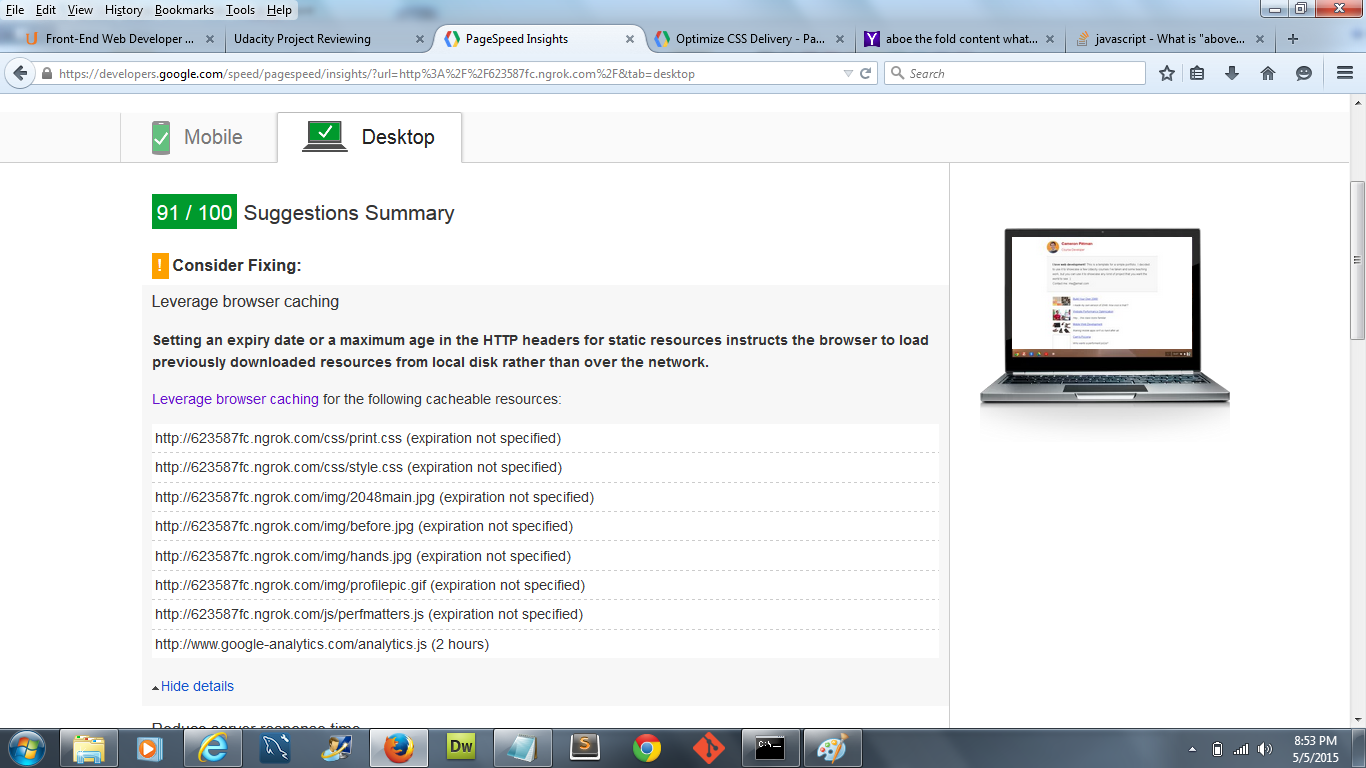
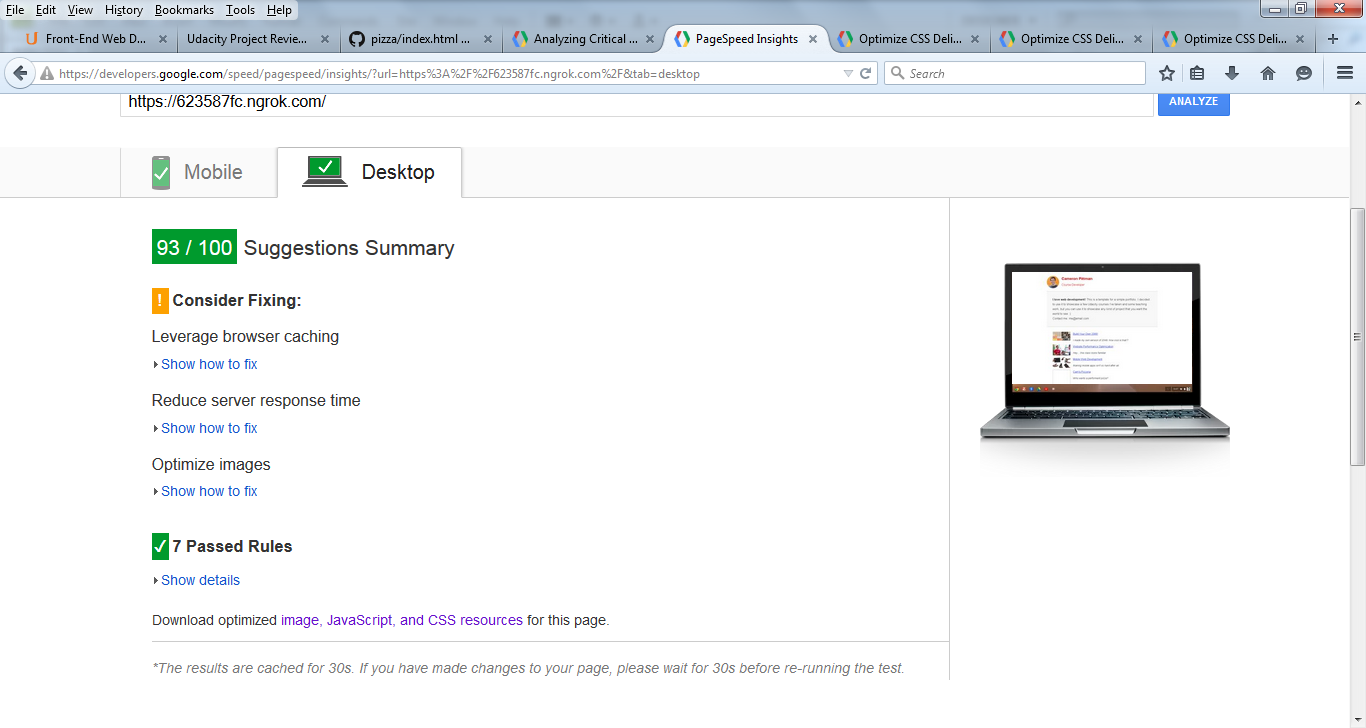
fixed pizzaria.jpg and moved all css to index.html

diff --git a/index.html b/index.html
@@ -7,25 +7,65 @@
     <meta name="author" content=" FILL ME IN ">
     <title>Cameron Pittman: Portfolio</title>
 <!--  removed style from this file not needed same style in css file --!>
-
-
-
-
     <!-- Hmm, what is the impact of web fonts on speed? Measure it... -->
    <!-- <link href="//fonts.googleapis.com/css?family=Open+Sans:400,700" rel="stylesheet"> -->
 
-    <link href="css/style.css" rel="stylesheet">
+    
     <link href="css/print.css" rel="stylesheet" media="print">
 <style>
 @media only screen and (max-width: 480px) {
   body { font-size: 12px;}
   header p { padding-left: 4.5em;}
 }
+html {
+  font-size: 100%;
+  overflow-y: scroll;
+  -webkit-tap-highlight-color: rgba(0,0,0,0);
+  -ms-text-size-adjust: 100%;
+  -webkit-text-size-adjust: none;
+}
+body { margin: 0; font-size: 14px; line-height: 1.61; font-weight: 400; }
+body, button, input, select, textarea { font-family: 'Open Sans', sans-serif; color: #333; }
+
+a { color: #12C; }
+a:visited { color: #61C; }
+a:focus { outline: thin dotted; }
+a:hover, a:active { color: #c00; outline: 0; }
+
+b, strong { font-weight: bold; }
+pre, code { font-family: monospace, monospace; font-size: 1em; }
+ul, ol { margin: 1em 0; padding: 0 0 0 20px; }
+img { border: 0; max-width: 100%; }
+
+
+header, footer, .container { max-width: 45em; margin: 0 auto; }
+
+header { padding: 0 0.5em; color: #C90B0B; }
+header img { border-radius: 40px; float: left; }
+header p { font-size:1.5em; font-weight: bold; padding-left: 4em;}
+header p span { font-size: 0.8em; font-weight: normal;}
+
+.hero { padding: 2em; background-color: #f8f8f8; font-size:1.2em;
+  border-bottom: 1px solid #ccc;
+  border-top: 1px solid #ccc;
+}
+
+.content { padding: 1em 1em; }
+.content li { list-style-type: none; font-size: 1.1em;}
+li img { float:left; padding-right: 1em; }
+li p { font-size: 0.9em; font-style: italic; }
+
+footer {
+  padding: 0 0.5em;
+  border-top: 1px solid #ccc;
+}
+footer span { float: right; font-style: italic; }
+
+
 </style>
     <script>
       (function(w,g){w['GoogleAnalyticsObject']=g;
       w[g]=w[g]||function(){(w[g].q=w[g].q||[]).push(arguments)};w[g].l=1*new Date();})(window,'ga');
-
       // TODO: replace with your Google Analytics profile ID.
       ga('create', 'UA-XXXX-Y');
       ga('send', 'pageview');
@@ -66,7 +106,7 @@
           </li>
 
           <li>
-            <img style="width: 100px;" src="views/images/pizzeria-compressed.jpg">
+            <img style="width: 100px;" src="img/pizzeria.jpg">
             <a href="views/pizza.html">Cam's Pizzeria</a>
             <p>Who wants a performant pizza?</p>
           </li>

diff --git a/views/pizza.html b/views/pizza.html
@@ -36,7 +36,7 @@
     </div>
     <div id="callToAction" class="row">
       <div class="col-md-4">
-        <img src="/img/pizzeria-compressed.jpg" class="img-responsive"> <!-- Image credit to: http://commons.wikimedia.org/wiki/File:HK_TST_night_%E5%98%89%E8%98%AD%E9%81%93_Granville_Road_restaurant_Paisano's_Pizzeria_pizza_Dec-2013.JPG -->
+        <img src="images/pizzeria.jpg" class="img-responsive"> <!-- Image credit to: http://commons.wikimedia.org/wiki/File:HK_TST_night_%E5%98%89%E8%98%AD%E9%81%93_Granville_Road_restaurant_Paisano's_Pizzeria_pizza_Dec-2013.JPG -->
       </div>
       <div class="col-md-8">
         <div class="row">

diff --git a/css/style.css b/css/style.css
@@ -42,8 +42,4 @@ footer {
 }
 footer span { float: right; font-style: italic; }
 
-/* Smartphones (portrait) */
-@media only screen and (max-width: 480px) {
-  body { font-size: 12px;}
-  header p { padding-left: 4.5em;}
-}
+
